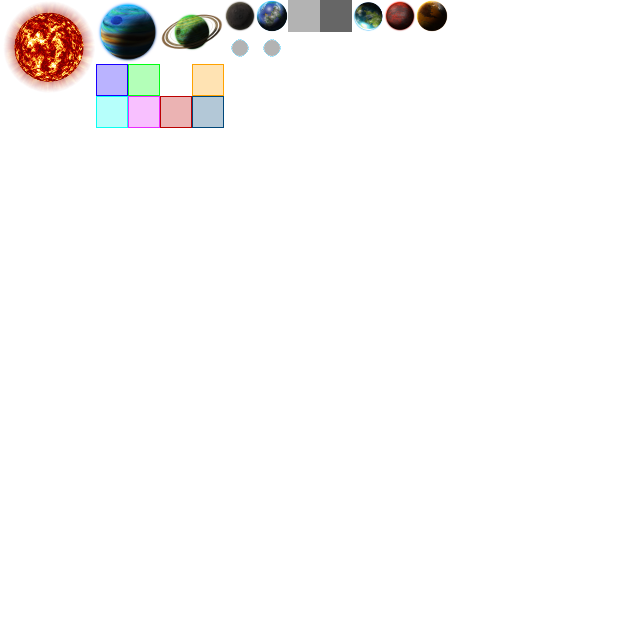
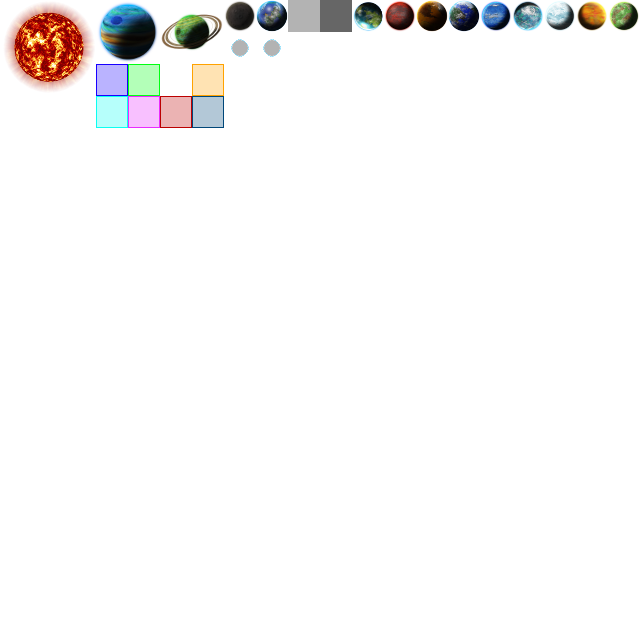
#152 Adds new tile and images for new planets.

Changed region(s): [[0.6875, 0.0, 1.0, 0.0625]]

diff --git a/src/main/java/org/openRealmOfStars/starMap/newsCorp/ImageInstruction.java b/src/main/java/org/openRealmOfStars/starMap/newsCorp/ImageInstruction.java
@@ -12,7 +12,7 @@ import org.openRealmOfStars.player.SpaceRace.SpaceRaceUtility;
 /**
 *
 * Open Realm of Stars game project
-* Copyright (C) 2017  Tuomo Untinen
+* Copyright (C) 2017,2018  Tuomo Untinen
 *
 * This program is free software; you can redistribute it and/or
 * modify it under the terms of the GNU General Public License
@@ -93,6 +93,14 @@ public class ImageInstruction {
    */
   public static final String PLANET_WATERWORLD2 = "waterworld2";
   /**
+   * Planet type waterworld3
+   */
+  public static final String PLANET_WATERWORLD3 = "waterworld3";
+  /**
+   * Planet type waterworld4
+   */
+  public static final String PLANET_WATERWORLD4 = "waterworld3";
+  /**
    * Planet type ironworld1
    */
   public static final String PLANET_IRONWORLD1 = "ironworld1";
@@ -100,6 +108,22 @@ public class ImageInstruction {
    * Planet type ironworld2
    */
   public static final String PLANET_IRONWORLD2 = "ironworld2";
+  /**
+   * Planet type ironworld3
+   */
+  public static final String PLANET_IRONWORLD3 = "ironworld3";
+  /**
+   * Planet type iceworld1
+   */
+  public static final String PLANET_ICEWORLD1 = "iceworld1";
+  /**
+   * Planet type iceworld2
+   */
+  public static final String PLANET_ICEWORLD2 = "iceworld2";
+  /**
+   * Planet type carbon world 1
+   */
+  public static final String PLANET_CARBONWORLD1 = "carbonworld1";
   /**
    * Planet type gas giant 1
    */
@@ -395,11 +419,29 @@ public class ImageInstruction {
     if (PLANET_WATERWORLD2.equals(planetType)) {
       planetImg = GuiStatics.BIG_PLANET_WATERWORLD2;
     }
+    if (PLANET_WATERWORLD3.equals(planetType)) {
+      planetImg = GuiStatics.BIG_PLANET_WATERWORLD3;
+    }
+    if (PLANET_WATERWORLD4.equals(planetType)) {
+      planetImg = GuiStatics.BIG_PLANET_WATERWORLD4;
+    }
+    if (PLANET_ICEWORLD1.equals(planetType)) {
+      planetImg = GuiStatics.BIG_PLANET_ICEWORLD1;
+    }
+    if (PLANET_ICEWORLD2.equals(planetType)) {
+      planetImg = GuiStatics.BIG_PLANET_ICEWORLD2;
+    }
+    if (PLANET_CARBONWORLD1.equals(planetType)) {
+      planetImg = GuiStatics.BIG_PLANET_CARBONWORLD1;
+    }
     if (PLANET_IRONWORLD1.equals(planetType)) {
       planetImg = GuiStatics.BIG_PLANET_IRONPLANET1;
     }
     if (PLANET_IRONWORLD2.equals(planetType)) {
       planetImg = GuiStatics.BIG_PLANET_IRONPLANET2;
+    }
+    if (PLANET_IRONWORLD3.equals(planetType)) {
+      planetImg = GuiStatics.BIG_PLANET_IRONPLANET3;
     }
     if (PLANET_GASGIANT1.equals(planetType)) {
       planetImg = GuiStatics.BIG_GASWORLD1;

diff --git a/src/main/java/org/openRealmOfStars/gui/GuiStatics.java b/src/main/java/org/openRealmOfStars/gui/GuiStatics.java
@@ -18,7 +18,7 @@ import org.openRealmOfStars.utilities.IOUtilities;
 /**
  *
  * Open Realm of Stars game project
- * Copyright (C) 2016,2017  Tuomo Untinen
+ * Copyright (C) 2016-2018  Tuomo Untinen
  *
  * This program is free software; you can redistribute it and/or
  * modify it under the terms of the GNU General Public License
@@ -508,6 +508,36 @@ public final class GuiStatics {
       .loadImage(Tiles.class.getResource("/resources/images/waterworld2.png"));
 
   /**
+   * Big planet screen water world 3
+   */
+  public static final BufferedImage BIG_PLANET_WATERWORLD3 = IOUtilities
+      .loadImage(Tiles.class.getResource("/resources/images/waterworld3.png"));
+
+  /**
+   * Big planet screen water world 4
+   */
+  public static final BufferedImage BIG_PLANET_WATERWORLD4 = IOUtilities
+      .loadImage(Tiles.class.getResource("/resources/images/waterworld4.png"));
+
+  /**
+   * Big planet screen ice world 1
+   */
+  public static final BufferedImage BIG_PLANET_ICEWORLD1 = IOUtilities
+      .loadImage(Tiles.class.getResource("/resources/images/iceworld1.png"));
+
+  /**
+   * Big planet screen ice world 2
+   */
+  public static final BufferedImage BIG_PLANET_ICEWORLD2 = IOUtilities
+      .loadImage(Tiles.class.getResource("/resources/images/iceworld2.png"));
+
+  /**
+   * Big planet screen carbon world 1
+   */
+  public static final BufferedImage BIG_PLANET_CARBONWORLD1 = IOUtilities
+      .loadImage(Tiles.class.getResource("/resources/images/carbonworld1.png"));
+
+  /**
    * Big planet screen iron planet 1
    */
   public static final BufferedImage BIG_PLANET_IRONPLANET1 = IOUtilities
@@ -518,6 +548,12 @@ public final class GuiStatics {
    */
   public static final BufferedImage BIG_PLANET_IRONPLANET2 = IOUtilities
       .loadImage(Tiles.class.getResource("/resources/images/ironplanet2.png"));
+
+  /**
+   * Big planet screen iron planet 3
+   */
+  public static final BufferedImage BIG_PLANET_IRONPLANET3 = IOUtilities
+      .loadImage(Tiles.class.getResource("/resources/images/ironplanet3.png"));
 
   /**
    * Big planet gas world

diff --git a/src/main/java/org/openRealmOfStars/starMap/planet/Planet.java b/src/main/java/org/openRealmOfStars/starMap/planet/Planet.java
@@ -61,7 +61,13 @@ public class Planet {
       Tiles.getTileByName(TileNames.WATERWORLD1).getIndex(),
       Tiles.getTileByName(TileNames.WATERWORLD2).getIndex(),
       Tiles.getTileByName(TileNames.IRONPLANET1).getIndex(),
-      Tiles.getTileByName(TileNames.IRONPLANET2).getIndex() };
+      Tiles.getTileByName(TileNames.IRONPLANET2).getIndex(),
+      Tiles.getTileByName(TileNames.WATERWORLD3).getIndex(),
+      Tiles.getTileByName(TileNames.WATERWORLD4).getIndex(),
+      Tiles.getTileByName(TileNames.ICEWORLD1).getIndex(),
+      Tiles.getTileByName(TileNames.ICEWORLD2).getIndex(),
+      Tiles.getTileByName(TileNames.IRONPLANET3).getIndex(),
+      Tiles.getTileByName(TileNames.CARBONWORLD1).getIndex()};
 
   /**
    * List of big planet images
@@ -69,14 +75,20 @@ public class Planet {
   public static final BufferedImage[] PLANET_BIG_IMAGES = {
       GuiStatics.BIG_PLANET_ROCK1, GuiStatics.BIG_PLANET_WATERWORLD1,
       GuiStatics.BIG_PLANET_WATERWORLD2, GuiStatics.BIG_PLANET_IRONPLANET1,
-      GuiStatics.BIG_PLANET_IRONPLANET2 };
+      GuiStatics.BIG_PLANET_IRONPLANET2,
+      GuiStatics.BIG_PLANET_WATERWORLD3, GuiStatics.BIG_PLANET_WATERWORLD4,
+      GuiStatics.BIG_PLANET_ICEWORLD1, GuiStatics.BIG_PLANET_ICEWORLD2,
+      GuiStatics.BIG_PLANET_IRONPLANET3, GuiStatics.BIG_PLANET_CARBONWORLD1};
   /**
    * List of planet image instructions used in news.
    */
   public static final String[] PLANET_NEWS_INSTRUCTIONS = {
       ImageInstruction.PLANET_ROCK1, ImageInstruction.PLANET_WATERWORLD1,
       ImageInstruction.PLANET_WATERWORLD2, ImageInstruction.PLANET_IRONWORLD1,
-      ImageInstruction.PLANET_IRONWORLD2};
+      ImageInstruction.PLANET_IRONWORLD2, ImageInstruction.PLANET_WATERWORLD3,
+      ImageInstruction.PLANET_WATERWORLD4, ImageInstruction.PLANET_ICEWORLD1,
+      ImageInstruction.PLANET_ICEWORLD2, ImageInstruction.PLANET_IRONWORLD3,
+      ImageInstruction.PLANET_CARBONWORLD1};
 
   /**
    * List of big planet images

diff --git a/src/main/java/org/openRealmOfStars/mapTiles/TileNames.java b/src/main/java/org/openRealmOfStars/mapTiles/TileNames.java
@@ -3,7 +3,7 @@ package org.openRealmOfStars.mapTiles;
 /**
  *
  * Open Realm of Stars game project
- * Copyright (C) 2016, 2017  Tuomo Untinen
+ * Copyright (C) 2016-2018  Tuomo Untinen
  *
  * This program is free software; you can redistribute it and/or
  * modify it under the terms of the GNU General Public License
@@ -127,6 +127,35 @@ public final class TileNames {
    * Planet 5 Iron world 2
    */
   public static final String IRONPLANET2 = "IRONPLANET2";
+
+  /**
+   * Planet 6 Water world 3
+   */
+  public static final String WATERWORLD3 = "WATERWORLD3";
+
+  /**
+   * Planet 7 Water world 4
+   */
+  public static final String WATERWORLD4 = "WATERWORLD4";
+
+  /**
+   * Planet 8 Ice world 1
+   */
+  public static final String ICEWORLD1 = "ICEWORLD1";
+
+  /**
+   * Planet 9 Ice world 2
+   */
+  public static final String ICEWORLD2 = "ICEWORLD2";
+
+  /**
+   * Planet 10 iron world 3
+   */
+  public static final String IRONPLANET3 = "IRONPLANET3";
+  /**
+   * Planet 11 carbon world 1
+   */
+  public static final String CARBONWORLD1 = "CARBONWORLD1";
 
   /**
    * Deep space anchor 1, place where starbase can be deploy

diff --git a/src/main/java/org/openRealmOfStars/mapTiles/Tiles.java b/src/main/java/org/openRealmOfStars/mapTiles/Tiles.java
@@ -9,7 +9,7 @@ import org.openRealmOfStars.utilities.IOUtilities;
 /**
  *
  * Open Realm of Stars game project
- * Copyright (C) 2016  Tuomo Untinen
+ * Copyright (C) 2016-2018  Tuomo Untinen
  *
  * This program is free software; you can redistribute it and/or
  * modify it under the terms of the GNU General Public License
@@ -205,6 +205,19 @@ public final class Tiles {
     // Previous tile index as animation index
     tile.setAnimationIndex(getTileByName(
         TileNames.DEEP_SPACE_ANCHOR1).getIndex());
+    // Readon more planets
+    tile = new Tile(tilesImage, 14, 0, TileNames.WATERWORLD3);
+    addTile(tile);
+    tile = new Tile(tilesImage, 15, 0, TileNames.WATERWORLD4);
+    addTile(tile);
+    tile = new Tile(tilesImage, 16, 0, TileNames.ICEWORLD1);
+    addTile(tile);
+    tile = new Tile(tilesImage, 17, 0, TileNames.ICEWORLD2);
+    addTile(tile);
+    tile = new Tile(tilesImage, 18, 0, TileNames.IRONPLANET3);
+    addTile(tile);
+    tile = new Tile(tilesImage, 19, 0, TileNames.CARBONWORLD1);
+    addTile(tile);
   }
 
 }
